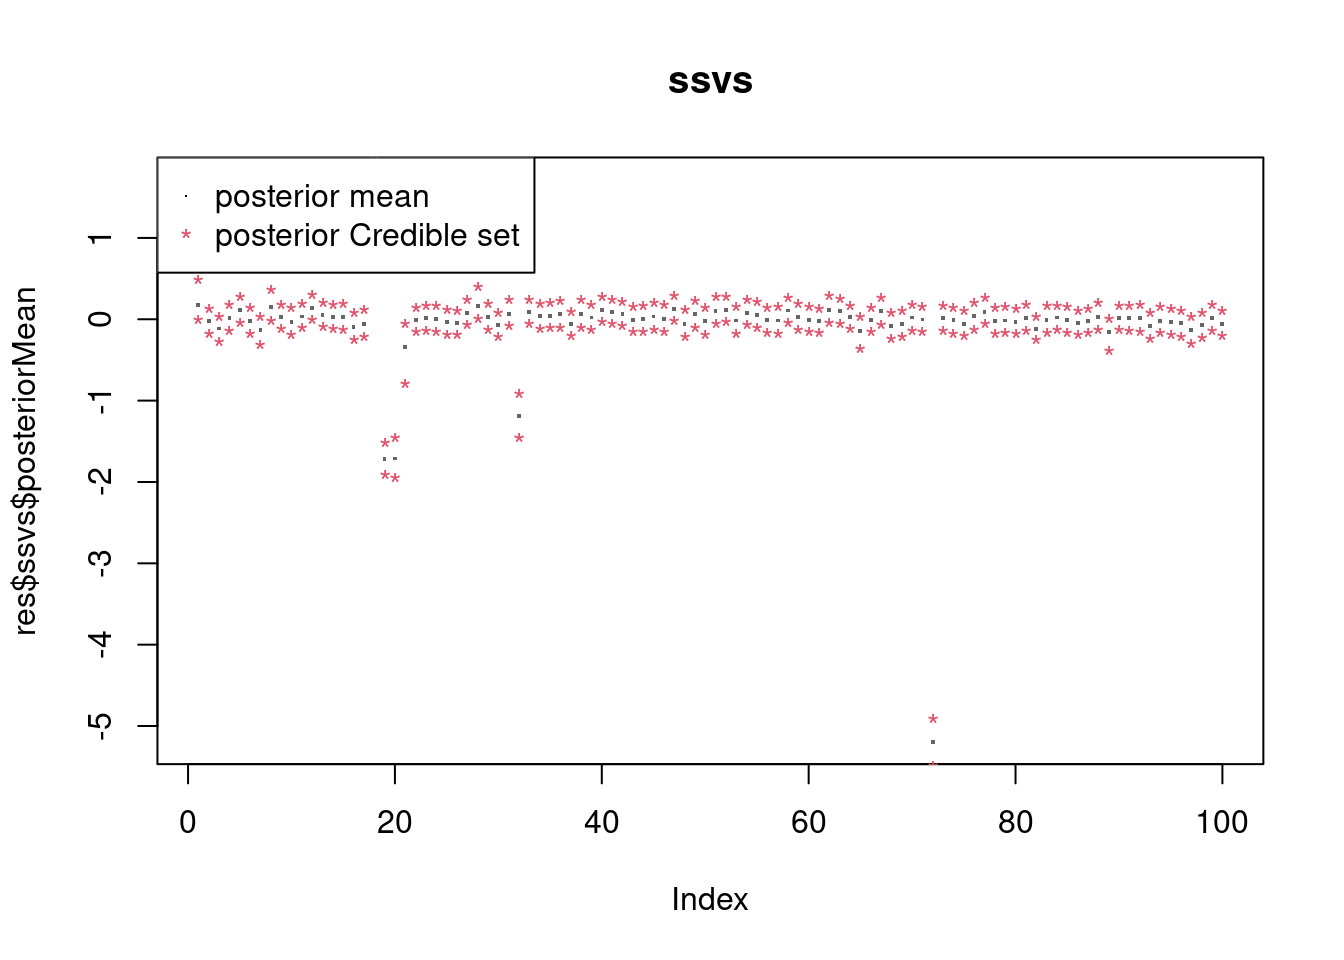
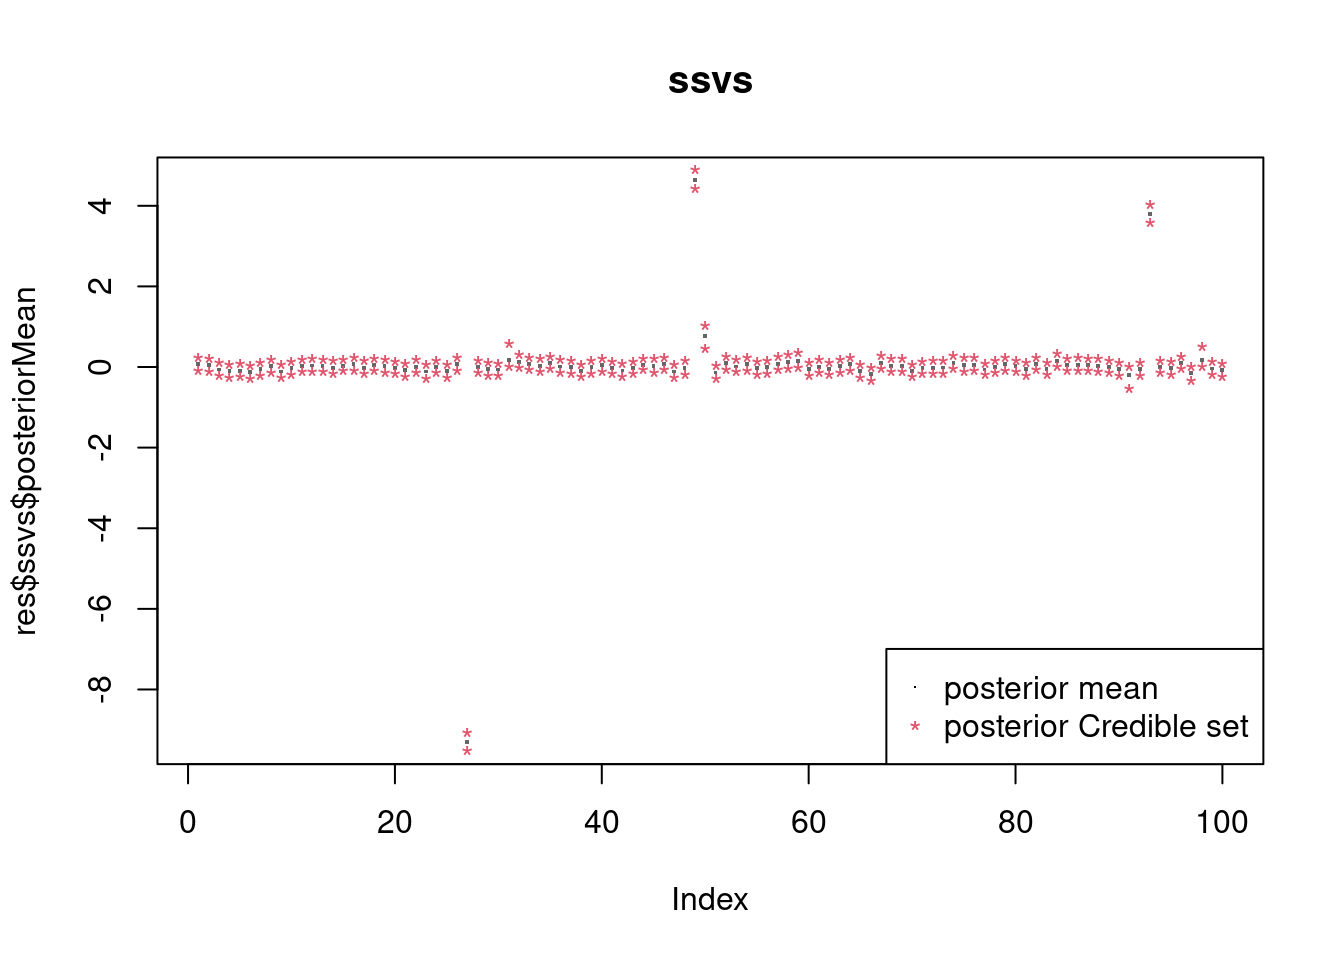
Build site.

diff --git a/docs/lrvs_example.html b/docs/lrvs_example.html
@@ -521,15 +521,15 @@ project makes it easier to run your code on other machines.</p>
 <div class="panel panel-default">
 <div class="panel-heading">
 <p class="panel-title">
-<a data-toggle="collapse" data-parent="#workflowr-checks" href="#strongRepositoryversionstrongahrefhttpsgithubcomDongyueXiemisctree98d50b257d9294ddbf5a88c60058814ed5888444targetblank98d50b2a">
+<a data-toggle="collapse" data-parent="#workflowr-checks" href="#strongRepositoryversionstrongahrefhttpsgithubcomDongyueXiemisctree4f6bdffa03cde3e850955c369529690e2087602dtargetblank4f6bdffa">
 <span class="glyphicon glyphicon-ok text-success"
 aria-hidden="true"></span> <strong>Repository version:</strong>
-<a href="https://github.com/DongyueXie/misc/tree/98d50b257d9294ddbf5a88c60058814ed5888444" target="_blank">98d50b2</a>
+<a href="https://github.com/DongyueXie/misc/tree/4f6bdffa03cde3e850955c369529690e2087602d" target="_blank">4f6bdff</a>
 </a>
 </p>
 </div>
 <div
[2 lines of base64/hex data omitted]
 class="panel-collapse collapse">
 <div class="panel-body">
 <p>
@@ -539,7 +539,7 @@ reproducibility.
 </p>
 <p>
 The results in this page were generated with repository version
-<a href="https://github.com/DongyueXie/misc/tree/98d50b257d9294ddbf5a88c60058814ed5888444" target="_blank">98d50b2</a>.
+<a href="https://github.com/DongyueXie/misc/tree/4f6bdffa03cde3e850955c369529690e2087602d" target="_blank">4f6bdff</a>.
 See the <em>Past versions</em> tab to see a history of the changes made
 to the R Markdown and HTML files.
 </p>
@@ -561,6 +561,9 @@ Ignored files:
 
 Untracked files:
     Untracked:  output/lfi/
+
+Unstaged changes:
+    Modified:   analysis/index.Rmd
 
 </code></pre>
 <p>
@@ -611,6 +614,40 @@ Message
 Rmd
 </td>
 <td>
+<a href="https://github.com/DongyueXie/misc/blob/4f6bdffa03cde3e850955c369529690e2087602d/analysis/lrvs_example.Rmd" target="_blank">4f6bdff</a>
+</td>
+<td>
+DongyueXie
+</td>
+<td>
+2023-02-14
+</td>
+<td>
+wflow_publish("analysis/lrvs_example.Rmd")
+</td>
+</tr>
+<tr>
+<td>
+html
+</td>
+<td>
+<a href="https://rawcdn.githack.com/DongyueXie/misc/35abc5d7b4431411ea3b5c7d8564e4e5496cab6a/docs/lrvs_example.html" target="_blank">35abc5d</a>
+</td>
+<td>
+DongyueXie
+</td>
+<td>
+2023-02-14
+</td>
+<td>
+Build site.
+</td>
+</tr>
+<tr>
+<td>
+Rmd
+</td>
+<td>
 <a href="https://github.com/DongyueXie/misc/blob/98d50b257d9294ddbf5a88c60058814ed5888444/analysis/lrvs_example.Rmd" target="_blank">98d50b2</a>
 </td>
 <td>
@@ -649,7 +686,8 @@ gen_data = function(n,p,pi0,var0,var1,sigma2,XI = FALSE){
   }
   return(list(beta=beta,y=y,X=X))
 }</code></pre>
-<pre class="r"><code>n = 100
+<pre class="r"><code>set.seed(12345)
+n = 100
 p = 100
 pi0 = 0.95
 var0 = 0.01
@@ -684,18 +722,129 @@ Done!
 <pre class="r"><code>plot(res$ssvs$posteriorMean,col=&#39;grey40&#39;,pch=&#39;.&#39;,cex=2,main=&#39;ssvs&#39;)
 lines(res$ssvs$posteriorCS[,1],col=2,type=&#39;p&#39;,pch=&#39;*&#39;)
 lines(res$ssvs$posteriorCS[,2],col=2,type=&#39;p&#39;,pch=&#39;*&#39;)
-legend(&#39;topleft&#39;,c(&#39;posterior mean&#39;,&#39;posterior Credible set&#39;),pch=c(&#39;.&#39;,&#39;*&#39;),col=c(1,2))</code></pre>
+legend(&#39;bottomright&#39;,c(&#39;posterior mean&#39;,&#39;posterior Credible set&#39;),pch=c(&#39;.&#39;,&#39;*&#39;),col=c(1,2))</code></pre>
 <p><img src="figure/lrvs_example.Rmd/unnamed-chunk-5-1.png" width="672" style="display: block; margin: auto;" /></p>
+<p>
+<button type="button" class="btn btn-default btn-xs btn-workflowr btn-workflowr-fig" data-toggle="collapse" data-target="#fig-unnamed-chunk-5-1">
+Past versions of unnamed-chunk-5-1.png
+</button>
+</p>
+<div id="fig-unnamed-chunk-5-1" class="collapse">
+<div class="table-responsive">
+<table class="table table-condensed table-hover">
+<thead>
+<tr>
+<th>
+Version
+</th>
+<th>
+Author
+</th>
+<th>
+Date
+</th>
+</tr>
+</thead>
+<tbody>
+<tr>
+<td>
+<a href="https://github.com/DongyueXie/misc/blob/35abc5d7b4431411ea3b5c7d8564e4e5496cab6a/docs/figure/lrvs_example.Rmd/unnamed-chunk-5-1.png" target="_blank">35abc5d</a>
+</td>
+<td>
+DongyueXie
+</td>
+<td>
+2023-02-14
+</td>
+</tr>
+</tbody>
+</table>
+</div>
+</div>
 <pre class="r"><code>plot(res$bbssl$posteriorMean,col=&#39;grey40&#39;,pch=&#39;.&#39;,cex=2,main=&#39;bbssl&#39;)
 lines(res$bbssl$posteriorCS[,1],col=2,type=&#39;p&#39;,pch=&#39;*&#39;)
 lines(res$bbssl$posteriorCS[,2],col=2,type=&#39;p&#39;,pch=&#39;*&#39;)
-legend(&#39;topleft&#39;,c(&#39;posterior mean&#39;,&#39;posterior Credible set&#39;),pch=c(&#39;.&#39;,&#39;*&#39;),col=c(1,2))</code></pre>
+legend(&#39;bottomright&#39;,c(&#39;posterior mean&#39;,&#39;posterior Credible set&#39;),pch=c(&#39;.&#39;,&#39;*&#39;),col=c(1,2))</code></pre>
 <p><img src="figure/lrvs_example.Rmd/unnamed-chunk-6-1.png" width="672" style="display: block; margin: auto;" /></p>
+<p>
+<button type="button" class="btn btn-default btn-xs btn-workflowr btn-workflowr-fig" data-toggle="collapse" data-target="#fig-unnamed-chunk-6-1">
+Past versions of unnamed-chunk-6-1.png
+</button>
+</p>
+<div id="fig-unnamed-chunk-6-1" class="collapse">
+<div class="table-responsive">
+<table class="table table-condensed table-hover">
+<thead>
+<tr>
+<th>
+Version
+</th>
+<th>
+Author
+</th>
+<th>
+Date
+</th>
+</tr>
+</thead>
+<tbody>
+<tr>
+<td>
+<a href="https://github.com/DongyueXie/misc/blob/35abc5d7b4431411ea3b5c7d8564e4e5496cab6a/docs/figure/lrvs_example.Rmd/unnamed-chunk-6-1.png" target="_blank">35abc5d</a>
+</td>
+<td>
+DongyueXie
+</td>
+<td>
+2023-02-14
+</td>
+</tr>
+</tbody>
+</table>
+</div>
+</div>
 <pre class="r"><code>plot(res$debiased_lasso$beta_hat,col=&#39;grey40&#39;,pch=&#39;.&#39;,cex=2,main=&#39;debiased lasso&#39;,ylim=range(res$debiased_lasso$confidence_interval))
 lines(res$debiased_lasso$confidence_interval[,1],col=2,type=&#39;p&#39;,pch=&#39;*&#39;)
 lines(res$debiased_lasso$confidence_interval[,2],col=2,type=&#39;p&#39;,pch=&#39;*&#39;)
-legend(&#39;topleft&#39;,c(&#39;posterior mean&#39;,&#39;posterior Credible set&#39;),pch=c(&#39;.&#39;,&#39;*&#39;),col=c(1,2))</code></pre>
+legend(&#39;bottomright&#39;,c(&#39;posterior mean&#39;,&#39;posterior Credible set&#39;),pch=c(&#39;.&#39;,&#39;*&#39;),col=c(1,2))</code></pre>
 <p><img src="figure/lrvs_example.Rmd/unnamed-chunk-7-1.png" width="672" style="display: block; margin: auto;" /></p>
+<p>
+<button type="button" class="btn btn-default btn-xs btn-workflowr btn-workflowr-fig" data-toggle="collapse" data-target="#fig-unnamed-chunk-7-1">
+Past versions of unnamed-chunk-7-1.png
+</button>
+</p>
+<div id="fig-unnamed-chunk-7-1" class="collapse">
+<div class="table-responsive">
+<table class="table table-condensed table-hover">
+<thead>
+<tr>
+<th>
+Version
+</th>
+<th>
+Author
+</th>
+<th>
+Date
+</th>
+</tr>
+</thead>
+<tbody>
+<tr>
+<td>
+<a href="https://github.com/DongyueXie/misc/blob/35abc5d7b4431411ea3b5c7d8564e4e5496cab6a/docs/figure/lrvs_example.Rmd/unnamed-chunk-7-1.png" target="_blank">35abc5d</a>
+</td>
+<td>
+DongyueXie
+</td>
+<td>
+2023-02-14
+</td>
+</tr>
+</tbody>
+</table>
+</div>
+</div>
 <br>
 <p>
 <button type="button" class="btn btn-default btn-workflowr btn-workflowr-sessioninfo" data-toggle="collapse" data-target="#workflowr-sessioninfo" style="display: block;">
